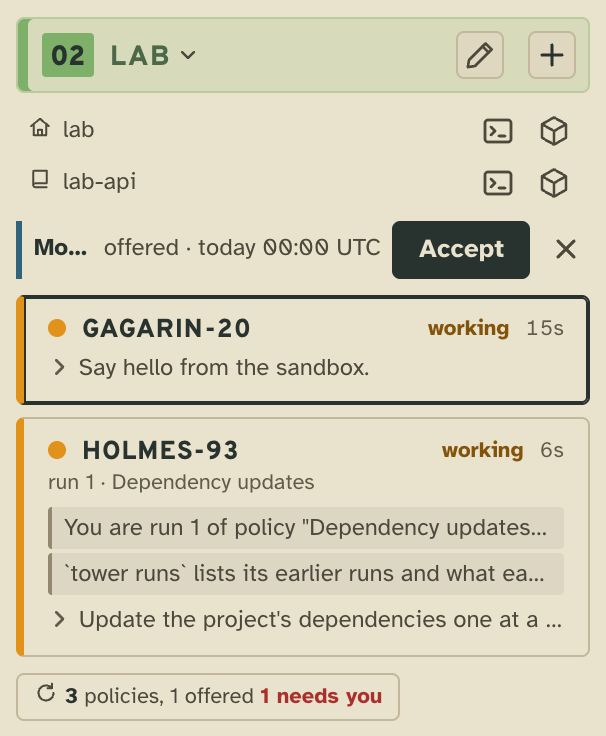
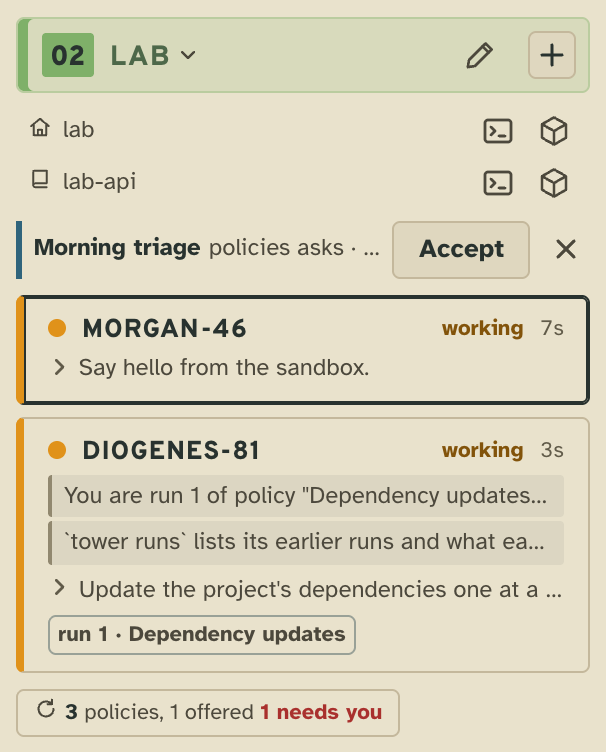
A policy run's card says which run it is with the policies extension's badge
The sidebar read a run from the policies extension's part and drew its own row
under the worker. The extension's card fold now adds a badge, run N and the
policy's title, saying on hover what started it, and every renderer drawing a
card's badges shows it: the sidebar in the worker's badges, Tower 3D on its desk.

diff --git a/renderers/page/sidebar.js b/renderers/page/sidebar.js
@@ -2,8 +2,6 @@ import { badgesOf, cardSubject, linesOf, floorSubject, heededAsks, projectOfKey,
 import { PROBE_ATTENTION, probeLine, probeTitle, quotaOf } from '/x/quota/quota.js'
 import { ICON, SHELF_ICON, originIcon, withIcons } from '/icons.js'
 import { reviewerOf } from '/x/reviews/reviews.js'
-import { policyZone } from '/x/policies/panel.js'
-import { runOf, slotWords } from '/x/policies/policies.js'
 import { onDuty, lineOf, $, fillOf, keyedTip, told } from './kit.js'
 import { keyshortcuts } from '/keymap.js'
 import { placeOnOpen } from '/tips.js'
@@ -14,7 +12,6 @@ import { addsHtml, asksHtml, badgesHtml } from './added.js'
 /**
  * @import { Board, Card, Floor, Unresumable } from '../../src/bridge/board.ts'
  * @import { Attention } from '../../src/bridge/life.ts'
- * @import { CardRun } from '../../extensions/policies/policies.ts'
  * @import { FloorBranch, FloorWorktree } from '../../src/bridge/worktrees.ts'
  * @import { RateLimit } from '../../src/bridge/facts.ts'
  * @import { EditedRow, Heed, TidyRow, DaemonVerb } from '../../src/shared/cards.ts'
@@ -76,7 +73,6 @@ export async function sidebar(deps) {
     return `<div class="sess ${lampOf(c)} ${c.waiting ? 'waits' : ''} ${c.id === selected() ? 'sel' : ''} ${onDuty(c) ? '' : 'gone'}" data-id="${c.id}" data-hold="${c.id}">
     <div class="top"><span class="lamp"></span><a class="call" href="#${c.id}"${c.id === selected() ? ' aria-current="true"' : ''}>${callsign(c.id)}</a><span class="st${c.stuck ? ' stuck' : ''}" data-tip="${esc(statusTitle(c))}">${statusWord(c)}${c.stuck || c.stranded ? `<span class="sr-only">: ${esc(statusTitle(c))}</span>` : ''}</span><span class="ago" translate="no" data-since="${c.enteredAt}"></span></div>
     ${c.worktree ? `<div class="branch" data-tip="worktree ${esc(c.worktree.name)}: ${esc(c.cwd)}">${withIcons(esc([branchLine(c), pairLineOf(c.hiredBy && c.hiredBy.callsign === over?.callsign ? { ...c, hiredBy: undefined } : c, reviewerOf(c))].filter(Boolean).join(' · ')))}</div>` : ''}
-    ${runHtml(c)}
     ${linesOf(board(), c.id).map((l) => `<div class="adds-line" data-tip="${esc(l)}">${esc(l)}</div>`).join('')}
     <div class="line">${lineOf(c)}</div>
     ${badgesOf(board(), cardSubject(c)).length ? `<div class="badges">${badgesHtml(board(), cardSubject(c))}</div>` : ''}
@@ -84,15 +80,6 @@ export async function sidebar(deps) {
     ${can(c, 'resume') ? `<div class="act resumes">${heldWhy('resume') ? heldHtml('resume', verbLabel('card', 'resume').toLowerCase(), `${ICON.resume} ${verbLabel('card', 'resume').toLowerCase()}`) : `<button data-resume="${esc(JSON.stringify(callOf(c, 'resume')))}">${ICON.resume} ${verbLabel('card', 'resume').toLowerCase()}</button>`}${letGoHtml(c, verbLabel('card', 'let-go').toLowerCase())}</div>` : c.unresumable ? `<div class="act">${unresumableHtml(c.unresumable)}</div>` : ''}
   </div>`
   }
-
-  /** The run of a policy a worker is, with what started it on hover. @param {Card} c */
-  const runHtml = (c) => {
-    const run = runOf(c)
-    return run ? `<div class="run" data-tip="${esc(runTitle(c.project, run))}">run ${run.n} · ${esc(run.title ?? run.tag)}</div>` : ''
-  }
-
-  /** What started a policy's run, on hover: a run not started by hand has a slot. @param {string} project @param {CardRun} run */
-  const runTitle = (project, run) => `run ${run.n} of the policy ${run.title ?? run.tag} (${run.tag}): ${run.start === 'hand' ? 'started by hand' : `${slotWords(run.slot, policyZone(board(), project, run.policy), pageNow())} slot, ${run.start === 'auto' ? 'started on its own' : 'its offer accepted'}`}`
 
   /**
    * The worker's subagents running now, a fork marked as its twin, and those that just ended fading out: the fade is an

diff --git a/extensions/policies/server.ts b/extensions/policies/server.ts
@@ -6,7 +6,7 @@
  */
 import type { Board, Card, Floor } from '../../src/bridge/board.ts'
 import { apiError, isApiError, type ApiError, type Replies, type RouteInput } from '../../src/shared/api.ts'
-import type { Ask, CallCtx, Part, Reduce, Slot, Start, StreamFact } from '../../src/shared/extensions.ts'
+import type { Ask, Badge, CallCtx, Part, Reduce, Slot, Start, StreamFact } from '../../src/shared/extensions.ts'
 import { ruleWords, slotsBetween, slotWords } from '../../src/shared/slots.ts'
 import { tagOf } from '../../src/shared/tags.ts'
 import { runCheck } from './check.ts'
@@ -80,6 +80,13 @@ const runLines = (run: CardRun, tz: string | undefined, now: number): string[] =
     ...(found ? [`Its check found: ${found}`] : []),
   ]
 }
+
+/** A run's badge on its worker's card: which run of which policy, and what started it on hover. */
+const runBadge = (run: CardRun, tz: string | undefined, now: number): Badge => ({
+  label: `run ${run.n} · ${run.title ?? run.tag}`,
+  tone: 'quiet',
+  hint: `run ${run.n} of the policy ${run.title ?? run.tag} (${run.tag}): ${run.start === 'hand' ? 'started by hand' : `${run.slot === null ? 'no' : slotWords(run.slot, tz, now)} slot, ${run.start === 'auto' ? 'started on its own' : 'its offer accepted'}`}`,
+})
 
 /** Why a policy can't take a fact for `slot`: it isn't valid, another runner acts on it, or `slot` is none of its slots up to now. */
 const slotRefusal = (policy: string, parsed: Parsed, slot: number | undefined): ApiError | undefined => {
@@ -308,7 +315,8 @@ const start: Start = (ctx) => {
         const run = cardRun(card.lineage[0].id, files, factsOf(own.streams as OwnStreams))
         if (!run) return {}
         const file = files.find((f) => f.id === run.policy)
-        return { x: { run }, lines: runLines(run, file?.parsed.ok ? file.parsed.header.when.tz : undefined, now) }
+        const tz = file?.parsed.ok ? file.parsed.header.when.tz : undefined
+        return { x: { run }, lines: runLines(run, tz, now), badges: [runBadge(run, tz, now)] }
       },
       floor: (floor: Floor, { now, board, callsignOf, own }): Part => {
         const views = policyViews(floor.id, filesOf(own.collections[POLICIES] ?? []), factsOf(own.streams as OwnStreams), floor.cards, callsignOf, board.hostUp, now)

diff --git a/renderers/page/index.html b/renderers/page/index.html
@@ -172,7 +172,6 @@ button.draft { width: 100%; border: none; background: none; font-weight: 400; te
 .offer-row .what b { flex: none; max-width: calc(100% - var(--sp-xs)); overflow: hidden; text-overflow: ellipsis; font-weight: 700; }
 .offer-row .what span { flex: 0 1 auto; min-width: 0; overflow: hidden; text-overflow: ellipsis; color: var(--muted); }
 .offer-row .what:hover b { text-decoration: underline; }
-.sess .run { color: var(--faint); font-size: var(--fs-xs); overflow: hidden; text-overflow: ellipsis; white-space: nowrap; }
 .past { overflow: hidden; padding: var(--sp-xs) var(--sp-m); border-radius: var(--radius); font-size: var(--fs-s); color: var(--muted); cursor: pointer; }
 .past:hover, .past.sel { background: var(--panel-2); color: var(--ink); }
 .past .head { display: flex; align-items: center; gap: var(--sp-m); }

diff --git a/kb/entities/decisions/policies.md b/kb/entities/decisions/policies.md
@@ -94,10 +94,12 @@ user may replace it by providing `policies`.
   approval, `invalid` for one approved once, `held` for the latest pass's slot while it is open and a run still runs;
   shown, never rung), with `run` and `approve` as its `actions`, calling `policies/*`; `floor.x.policies.offers`
   ([`offersOf`](ref:hub/extensions/policies/policies.ts#offersOf)), each also an ask (`sound: 'offer'`, `until` the next
-  slot, about the policy's item) in `board.asks`, the attention order's only offers
+  slot, about the policy's item, its hint the slot offered and until when, its action Accept) in `board.asks`, the
+  attention order's only offers
   ([`attentionOrder`](ref:hub/src/shared/waits.ts#attentionOrder)); a slot per policy the tower runs, in
   `board.adds`. The card fold: `card.x.policies.run` ([`cardRun`](ref:hub/extensions/policies/policies.ts#cardRun)), the
-  run fact naming the first session of a worker's lineage, and the lines `tower whoami` prints. Reads:
+  run fact naming the first session of a worker's lineage, the lines `tower whoami` prints, and a badge saying which
+  run of which policy it is. Reads:
   `policies/runs/<project>?policy&limit` ([`runsRead`](ref:hub/extensions/policies/policies.ts#runsRead)), a policy's
   runs, each worker as it is now, the archive included; `policies/said/<project>`, what `tower policies` and
   `tower runs` print, in the extension's words ([`policiesLines`](ref:hub/extensions/policies/cli.ts#policiesLines)),

diff --git a/kb/entities/tower/web-tower.md b/kb/entities/tower/web-tower.md
@@ -43,9 +43,9 @@ pane read as its type. Drafts are the drafts extension's over the `drafts` colle
 view in the main pane that saves as you type, built on `/x/drafts/drafts.js` as Tower 3D's is ([[corkboard]]); a draft
 starts a worker through the page's new-worker dialog (the keymap's `spawn` on the draft) or is submitted to a running
 one, then is deleted. A floor that keeps policies has a
-tray that opens the policies extension's panel at `#policies/<floor>` ([[policies]]); its open offers sit above its
-workers and N goes to them after the waits ([[attention-list]]); a worker a run started says so under its callsign,
-from the policies extension's `card.x.policies.run` ([[policies]]). The shell dock starts a shell in any directory of a floor. Under the worker bar sits
+tray that opens the policies extension's panel at `#policies/<floor>` ([[policies]]); its open offers, drawn as the
+floor's other asks are, sit above its workers and N goes to them after the waits ([[attention-list]]); a worker a run
+started says so in its badges, the policies extension's ([[policies]]). The shell dock starts a shell in any directory of a floor. Under the worker bar sits
 one tab row: the shared panels, then the worker's showings ([[agent-show]]).
 
 Frames that run a floor's own page (a shelf `html` or `renderer` entry, an `html` item, a shown file) are sandboxed at
